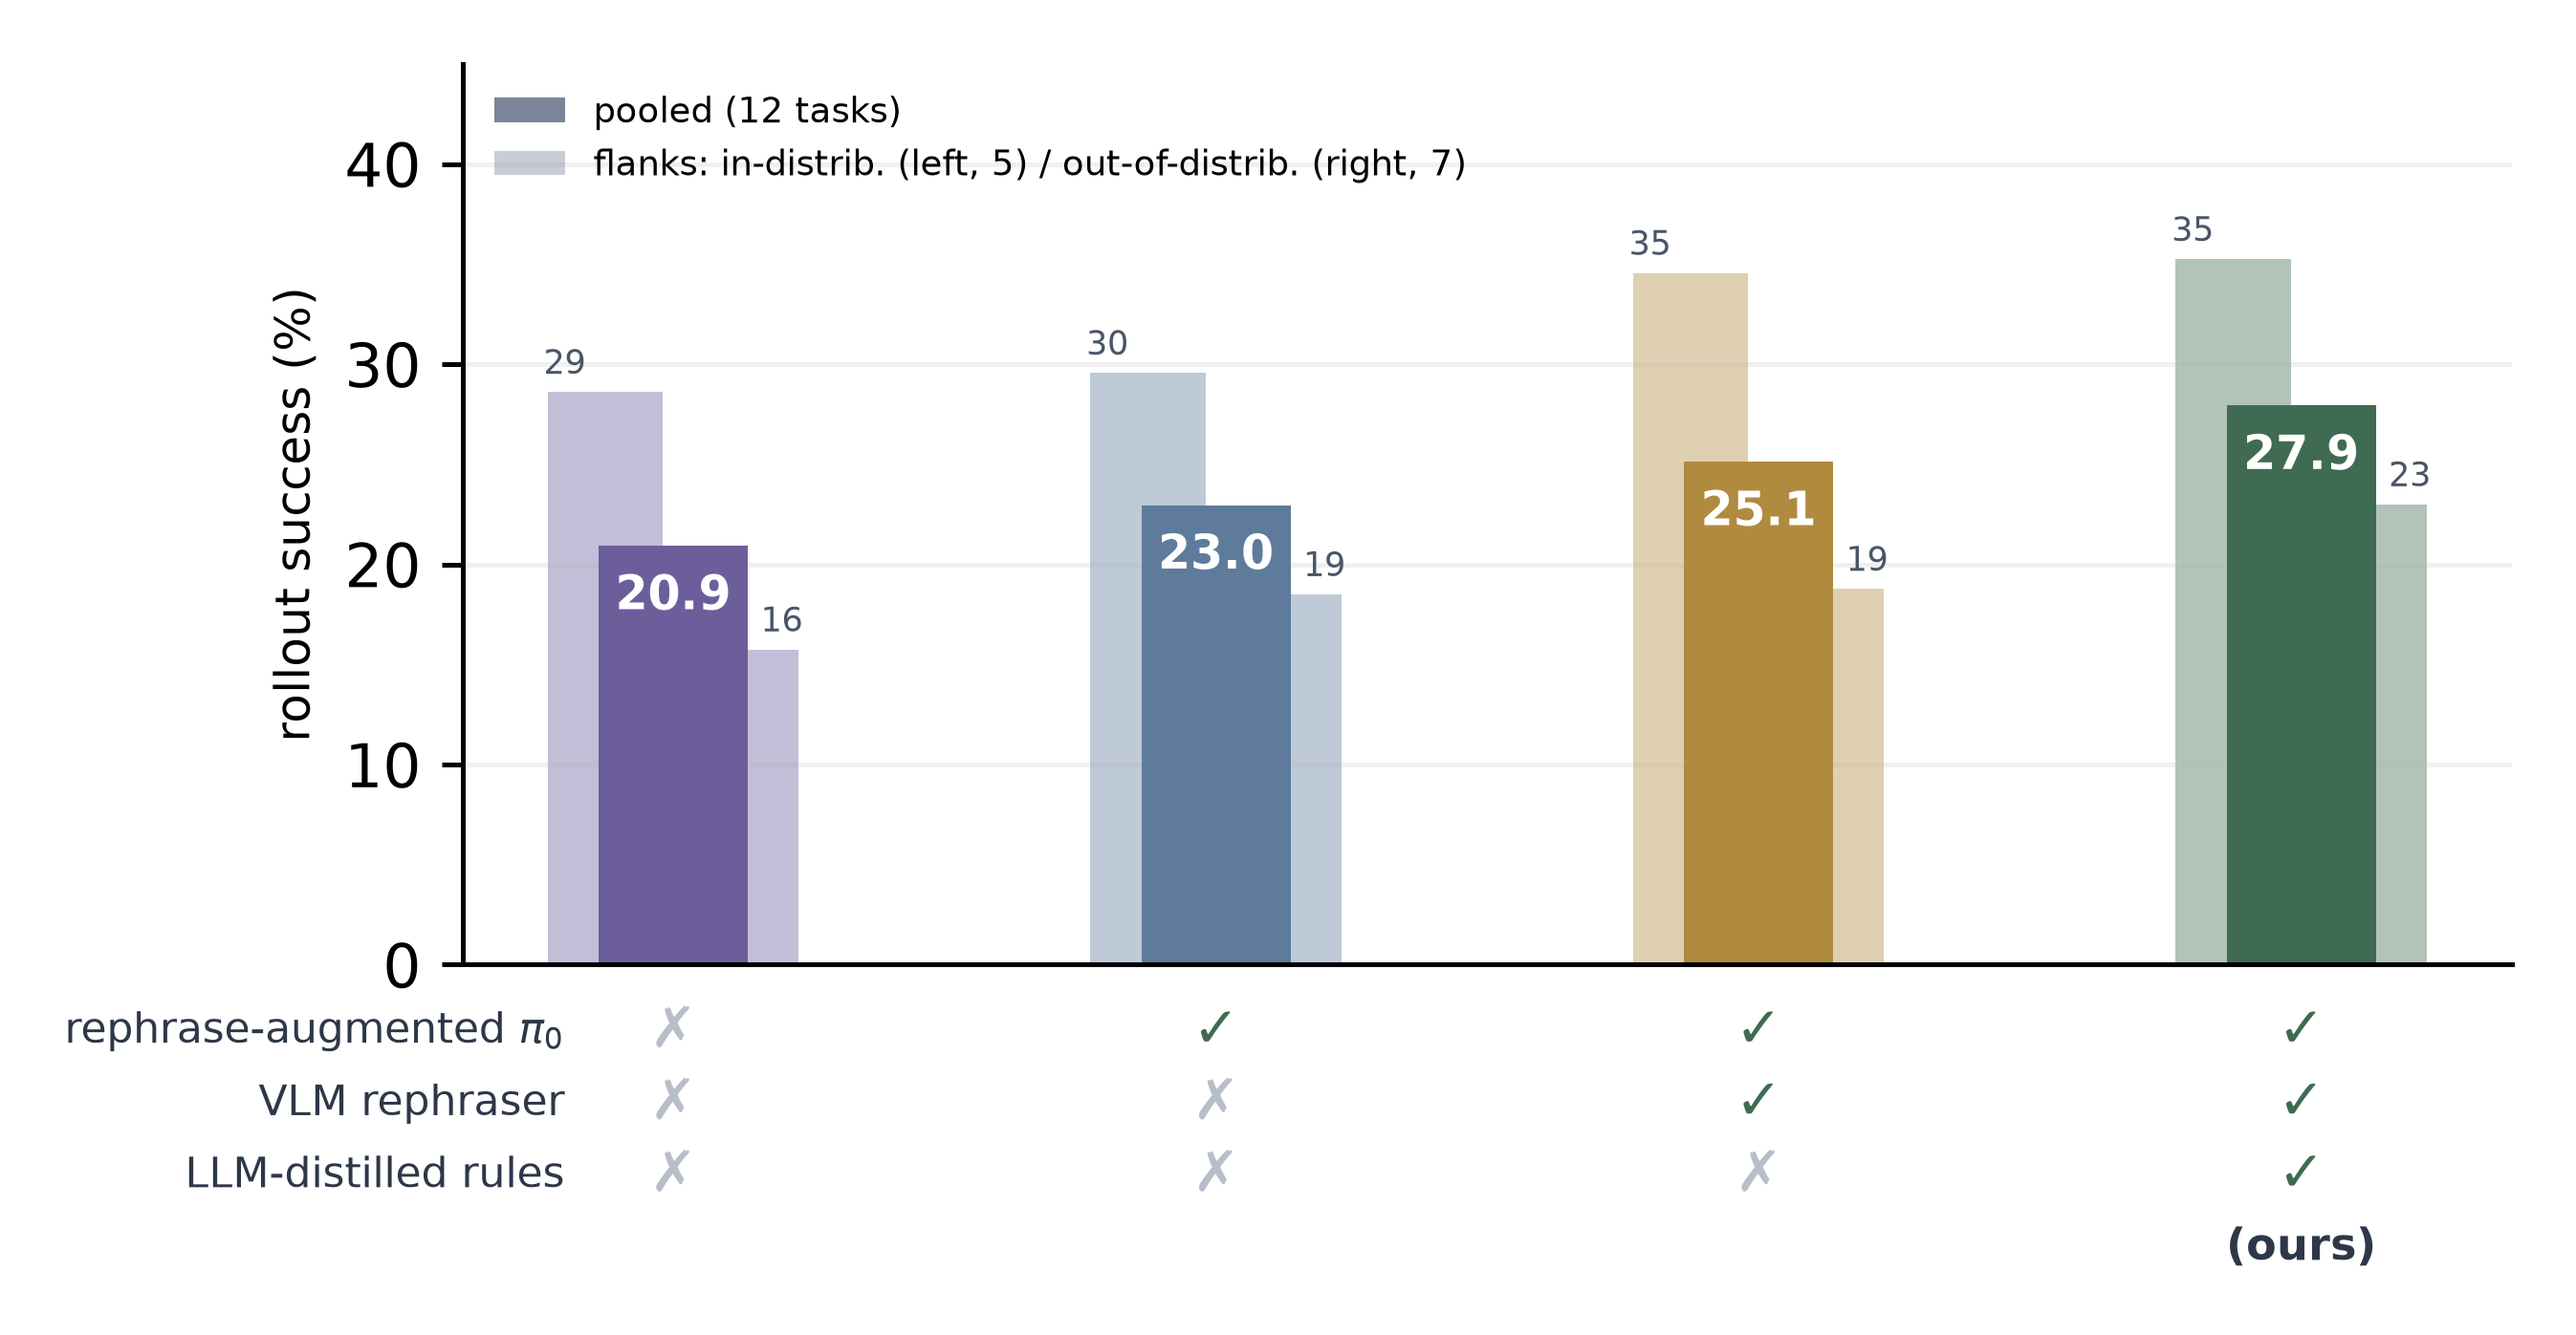
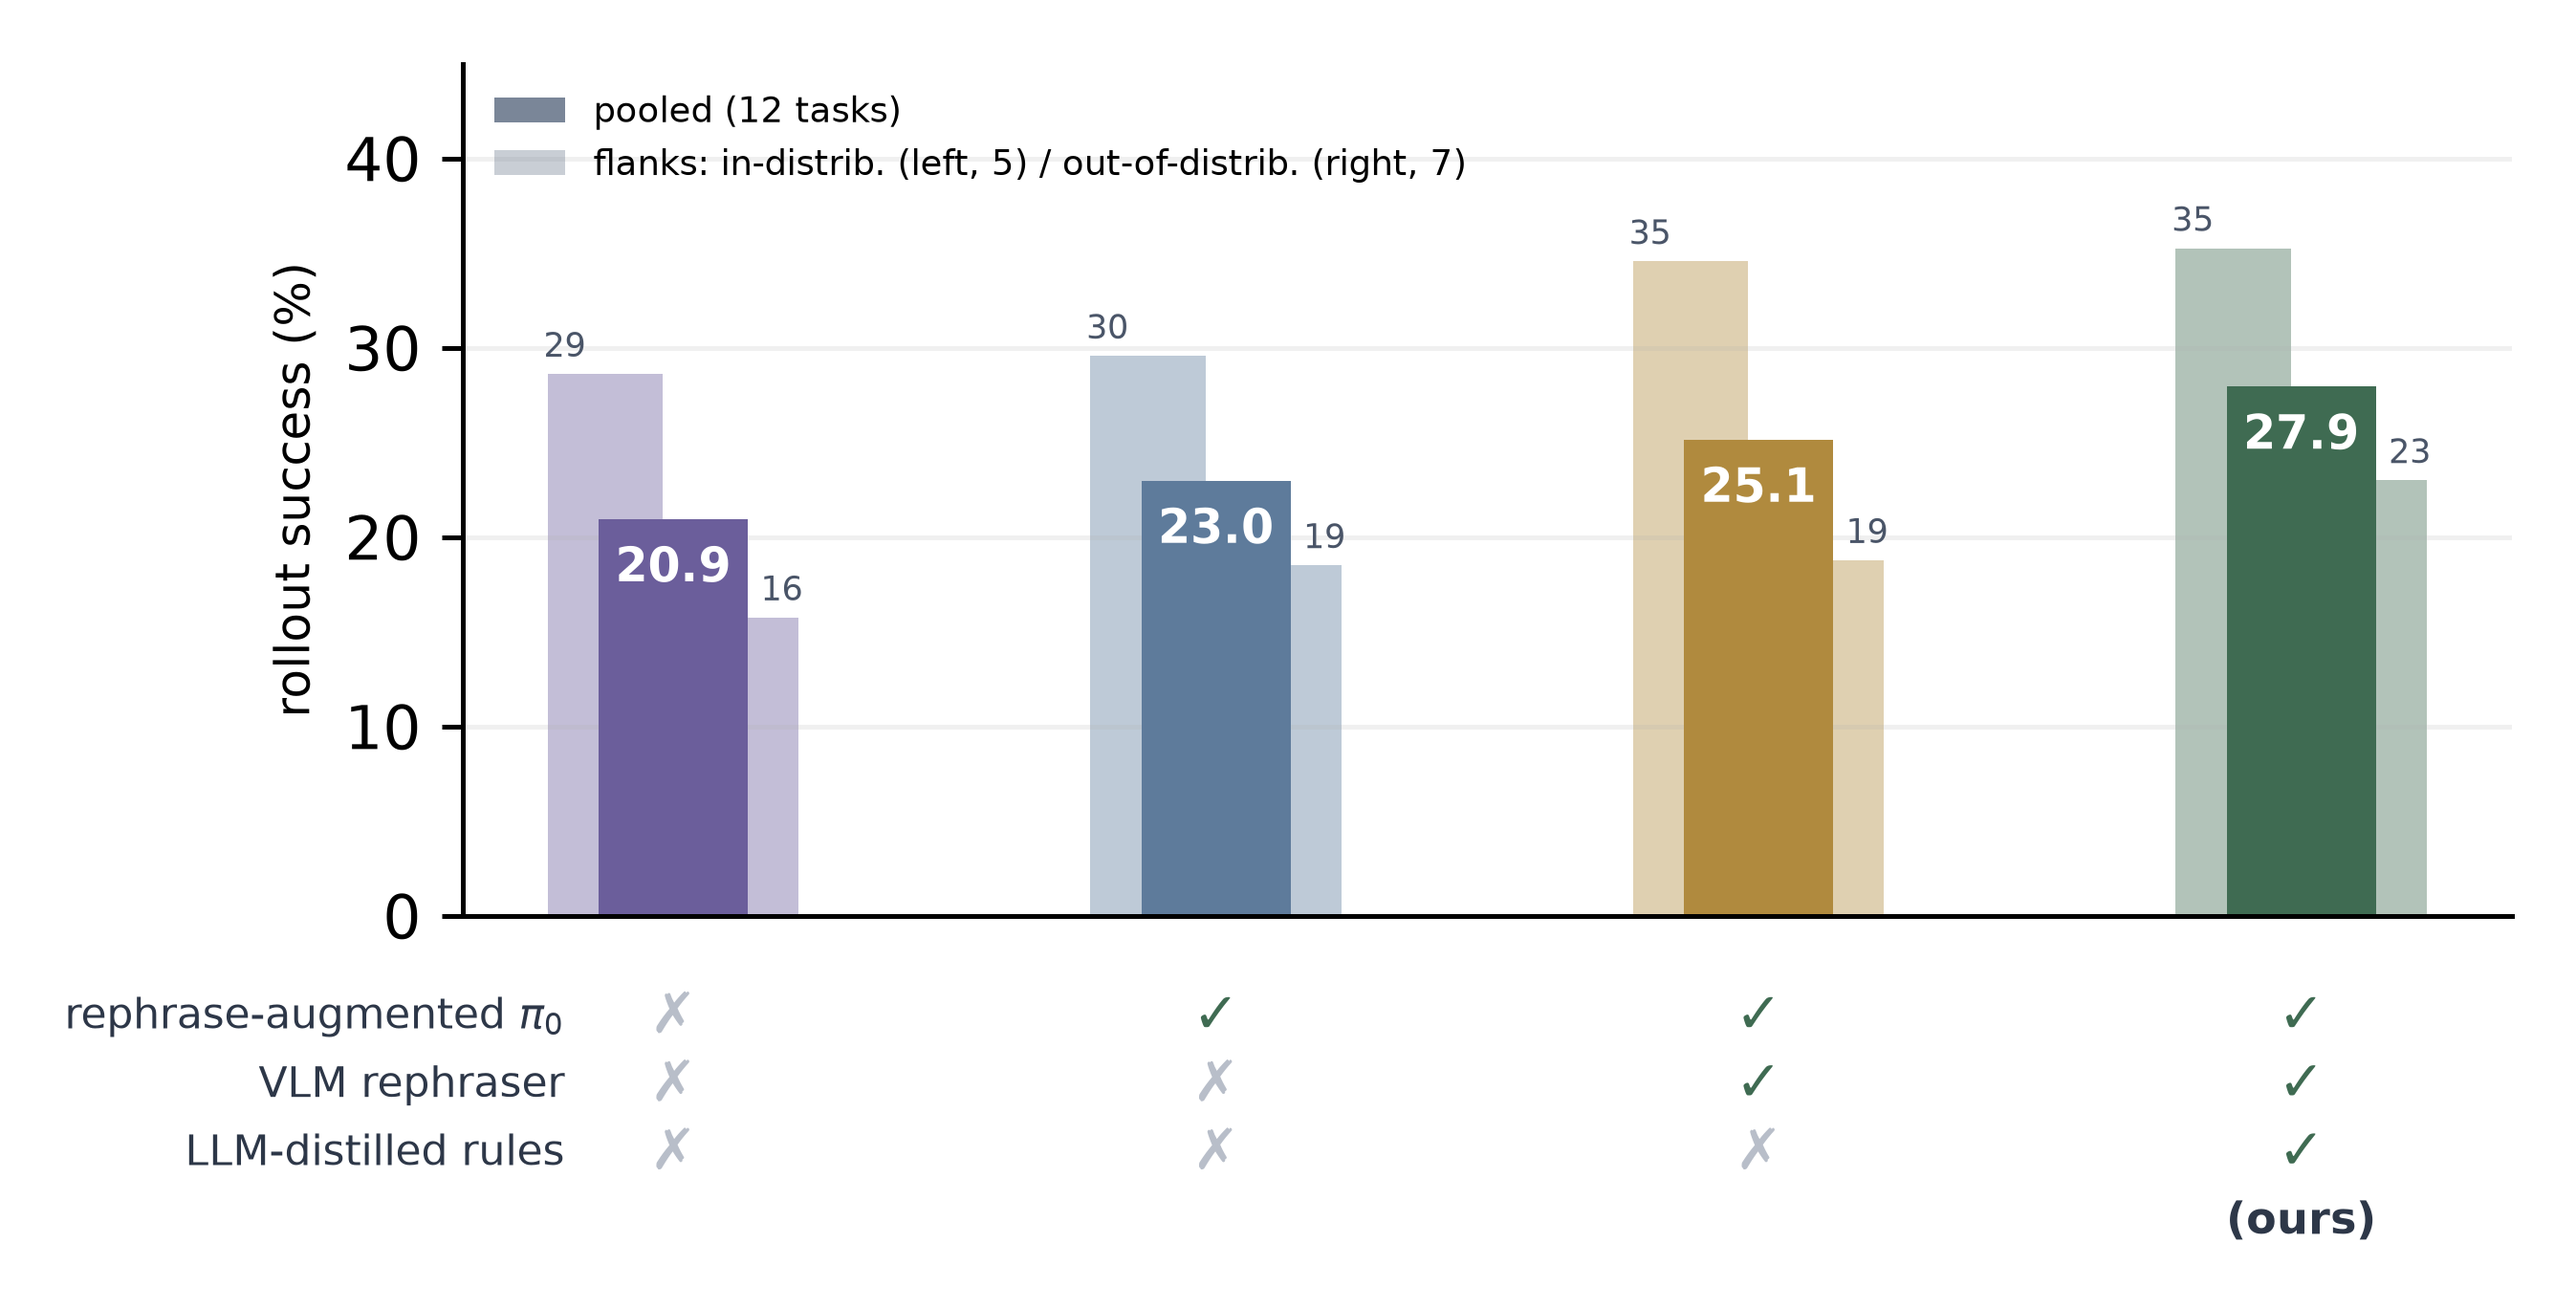
Site chart: feature grid lowered clear of the 0 tick

diff --git a/scripts/make_site_pi0_human.py b/scripts/make_site_pi0_human.py
@@ -74,7 +74,7 @@ ax.set_xticklabels([])
 # feature grid under the axis: row labels in the left margin, check / cross per bar
 import matplotlib.transforms as mtrans
 tr = mtrans.blended_transform_factory(ax.transData, ax.transAxes)
-ROW_Y = [-0.075, -0.155, -0.235]
+ROW_Y = [-0.12, -0.20, -0.28]
 for r, name in enumerate(ROWS):
     # row header tucked just left of the first column (data x), not at the spine
     ax.text(-0.32, ROW_Y[r], name, transform=tr, ha="right", va="center",
@@ -84,7 +84,7 @@ for r, name in enumerate(ROWS):
         ax.text(i * SP, ROW_Y[r], "\u2713" if on else "\u2717", transform=tr,
                 ha="center", va="center", fontsize=9.5, fontweight="bold",
                 color=(C_RULES if on else "#B8BEC9"))
-ax.text((len(BARS) - 1) * SP, -0.315, "(ours)", transform=tr, ha="center", va="center",
+ax.text((len(BARS) - 1) * SP, -0.36, "(ours)", transform=tr, ha="center", va="center",
         fontsize=7.4, fontweight="bold", color="#2d3748")
 ax.set_ylabel("rollout success (%)", fontsize=8.0)
 ax.set_ylim(0, 45)
